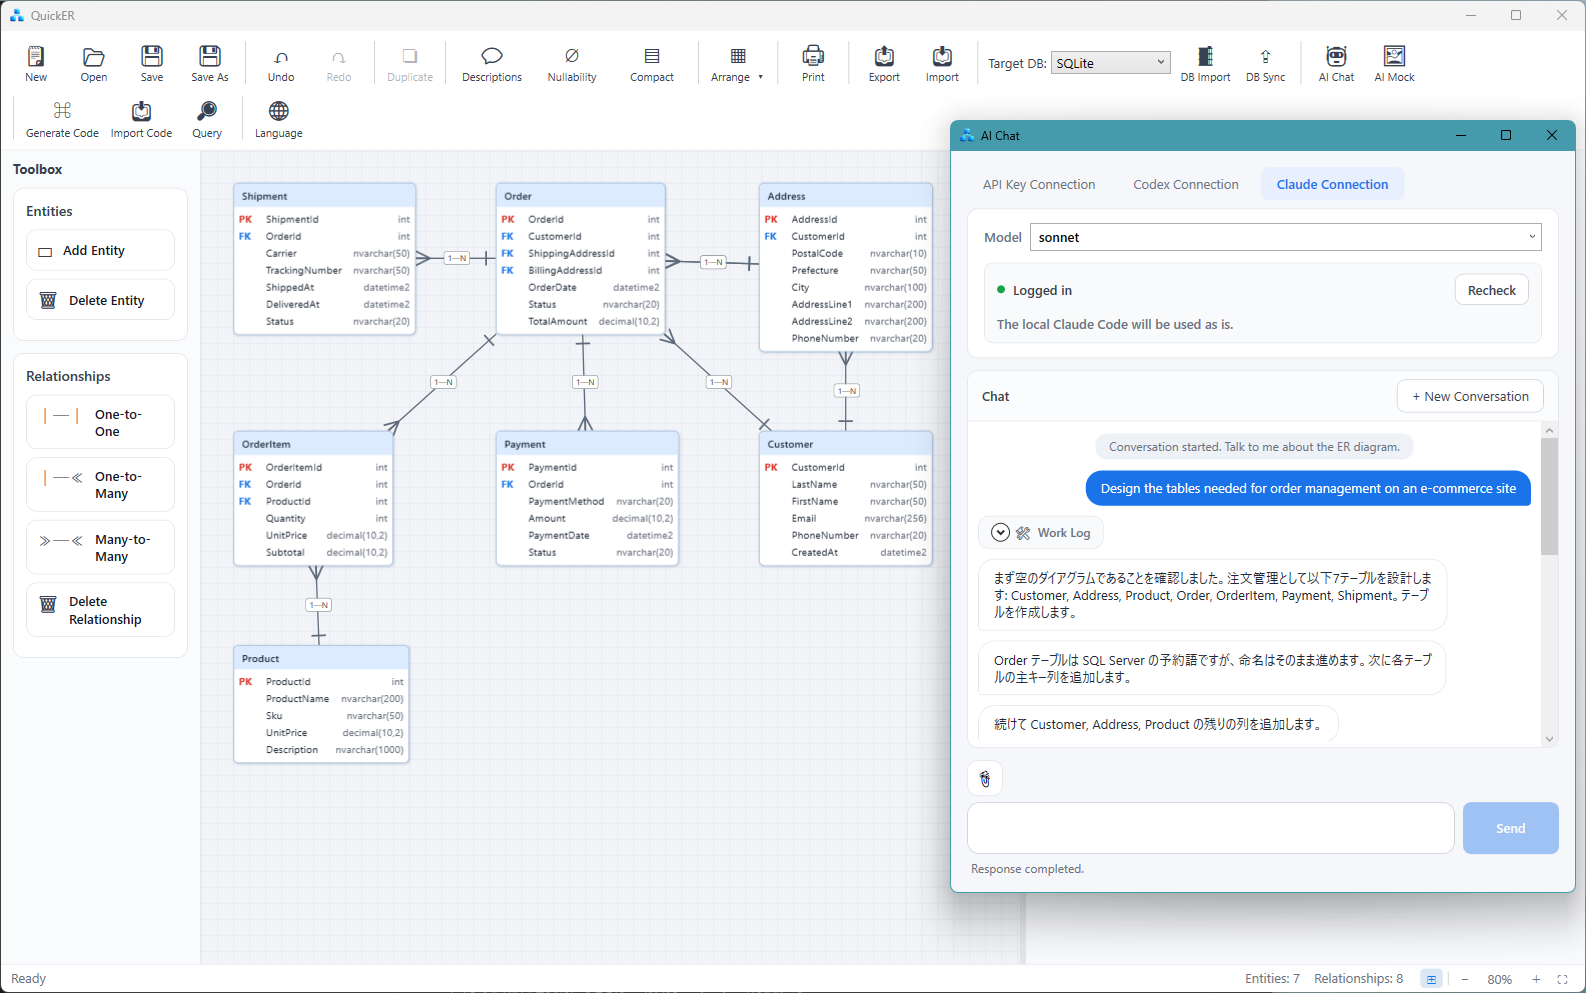
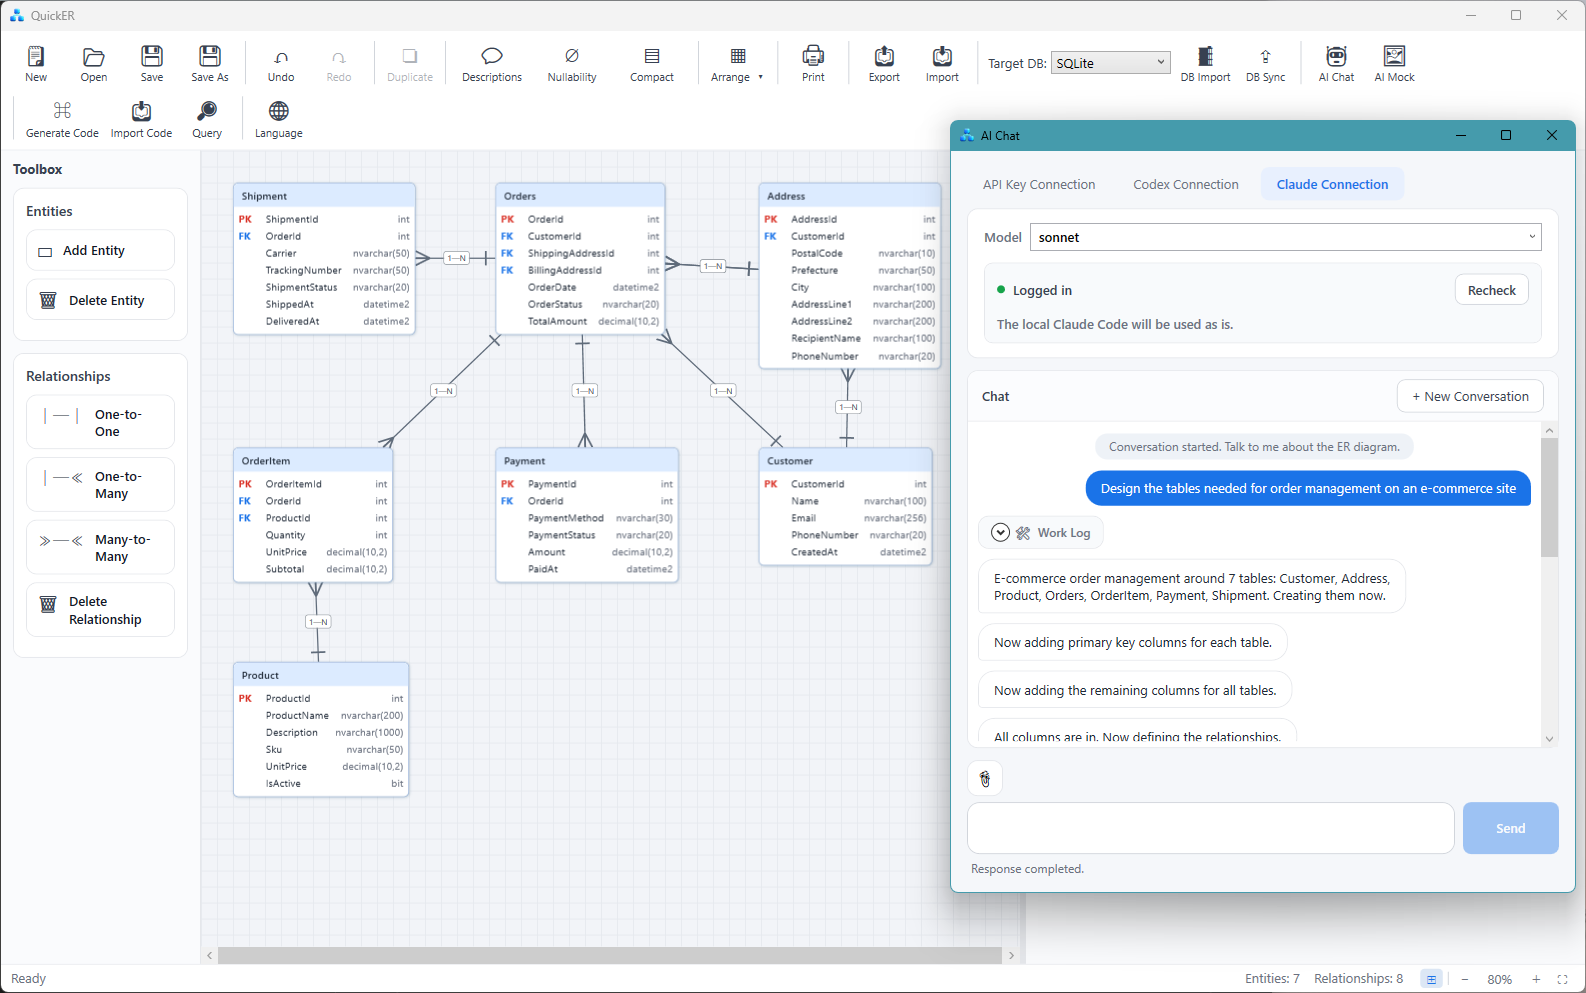
チャットの応答言語指示を「UI 言語既定＋明示切替」へ変更し、英語版 AI チャット画像を撮り直す
従来の鏡映し指示（ユーザーの直近のメッセージと同じ言語で応答）は、CLI エージェント接続
（Claude Code / Codex）でユーザー環境のメモリファイルが「ユーザーの声」として文脈に混入すると
「ユーザーの言語」の推論が引きずられ、英語 UI・英語メッセージでも日本語応答になることがあった
（実 CLI の A/B 検証: 旧文言は 2 回中 1 回日本語・「最優先」強調案はむしろ 3/3 日本語に悪化）。

- 言語指示をテンプレートから廃止し、resx 解決（＝UI 言語）の決定的ルール
  「応答は既定で UI 言語。ユーザーのメッセージが明らかに別言語のときのみ切替」を
  指示文の最後尾へ付加（ErDesignRules＝API キー / Codex / Claude Code の全経路・
  MockFolderDesignPrompts＝モックチャットも同欠陥のため同方式で修正）
- テスト: 言語ルールで終わる構造の固定と鏡映し文言の再混入ガード（ER / モック両方）
- docs/images/ai-chat.png: 修正版での実会話を撮り直し（英語 UI・英語応答・7 エンティティ生成）

検証: 実 CLI 再生ハーネスで EN 3/3・JA 1/1 安定（グローバル CLAUDE.md 復元済みの実環境条件）・
全 3,289 テスト全緑スキップ 0（Docker 込み）・csharpier クリーン

diff --git a/tests/QuickER.Tests/AI.Chat/ErDesignRulesTests.cs b/tests/QuickER.Tests/AI.Chat/ErDesignRulesTests.cs
@@ -89,16 +89,18 @@ public class ErDesignRulesTests
         }
     }
 
-    /// <summary>ツール指示テンプレートが「ユーザーと同じ言語で応答する」指示を含むことを検証する（両言語）</summary>
-    [Fact(DisplayName = "ツール指示はユーザー言語での応答指示を含む")]
-    public void ChatInstructionsTemplate_ContainsRespondInUserLanguageInstruction()
+    /// <summary>
+    /// 鏡映し（ユーザーと同じ言語で応答）の言語指示がテンプレートに残っていないことを検証する。
+    /// CLI 接続でユーザー環境のメモリが「ユーザーの声」として混入すると言語推論が不安定になるため、
+    /// 言語指示は ResponseLanguageRule（UI 言語既定＋明示切替）へ一本化した
+    /// </summary>
+    [Fact(DisplayName = "ツール指示テンプレートに鏡映しの言語指示が残っていない")]
+    public void ChatInstructionsTemplate_DoesNotContainMirrorLanguageInstruction()
     {
         En("ErDesign_ChatInstructionsTemplate")
             .Should()
-            .Contain("Respond in the same language as the user's most recent message");
-        Ja("ErDesign_ChatInstructionsTemplate")
-            .Should()
-            .Contain("応答は必ずユーザーの直近のメッセージと同じ言語で");
+            .NotContain("same language as the user's most recent message");
+        Ja("ErDesign_ChatInstructionsTemplate").Should().NotContain("直近のメッセージと同じ言語");
     }
 
     /// <summary>Codex 用 developerInstructions が命名既定（新規はパスカルケース単数形）を含むことを検証する（両言語テンプレート）</summary>
@@ -138,5 +140,32 @@ public class ErDesignRulesTests
             .BuildTableNameNumberInstruction(AiTableNameNumberStyle.Singular)
             .Should()
             .Be(Strings.ErDesign_TableNameSingular);
+    }
+
+    /// <summary>
+    /// チャット指示文（API キー / Codex / Claude Code 共通）が最優先の言語ルールで終わることを検証する。
+    /// CLI エージェント接続ではユーザー環境のメモリファイル等に応答言語が引きずられることがあるため、
+    /// 直近位置（最後尾）への付加を構造として固定する
+    /// </summary>
+    [Fact(DisplayName = "チャット指示文は最優先の言語ルールで終わる")]
+    public void ChatInstructions_EndWithResponseLanguageRule()
+    {
+        ErDesignRules
+            .BuildChatSystemPrompt()
+            .Should()
+            .EndWith(Strings.ErDesign_ResponseLanguageRule);
+        ErDesignRules
+            .BuildCodexDeveloperInstructions()
+            .Should()
+            .EndWith(Strings.ErDesign_ResponseLanguageRule);
+
+        Ja("ErDesign_ResponseLanguageRule")
+            .Should()
+            .Contain("既定で日本語")
+            .And.Contain("明らかに別の言語で書かれている場合のみ");
+        En("ErDesign_ResponseLanguageRule")
+            .Should()
+            .Contain("Default to English")
+            .And.Contain("clearly written in a different language");
     }
 }

diff --git a/src/QuickER.AI.Chat/ErDesignRules.cs b/src/QuickER.AI.Chat/ErDesignRules.cs
@@ -47,6 +47,13 @@ public static class ErDesignRules
 
     /// <summary>ツール駆動チャット（Codex / OpenAI 共通）の指示文を組み立てる</summary>
     /// <param name="toolMechanismLabel">ツール呼び出し機構の呼称（プロンプト内での表現を切り替える）</param>
+    /// <remarks>
+    /// 応答言語のルールは「UI 言語を既定・ユーザーのメッセージが明らかに別言語のときのみ切替」を
+    /// resx（＝UI 言語）で解決し、指示文の最後尾へ付加する。「ユーザーの直近のメッセージと同じ言語で」
+    /// という鏡映し指示は、CLI エージェント接続（Claude Code / Codex）でユーザー環境のメモリファイルが
+    /// ユーザーの声として文脈に混入すると「ユーザーの言語」の推論が引きずられ不安定だったため廃止
+    /// （実 CLI での A/B 検証に基づく。既定言語の明示は 3/3 で安定）。
+    /// </remarks>
     private static string BuildChatToolInstructions(string toolMechanismLabel) =>
         string.Format(
             Strings.ErDesign_ChatInstructionsTemplate,
@@ -54,5 +61,7 @@ public static class ErDesignRules
             CommonDesignPrinciples,
             SinglePrimaryKeyRule,
             SingleColumnForeignKeyRule
-        );
+        )
+        + "\n\n"
+        + Strings.ErDesign_ResponseLanguageRule;
 }

diff --git a/tests/QuickER.Tests/AI.Mock/MockFolderDesignPromptsTests.cs b/tests/QuickER.Tests/AI.Mock/MockFolderDesignPromptsTests.cs
@@ -80,4 +80,21 @@ public class MockFolderDesignPromptsTests
         codex.Should().Contain("save_screen");
         codex.Should().NotContain("{0}");
     }
+
+    /// <summary>
+    /// チャット指示が応答言語ルール（UI 言語既定＋明示切替）で終わることを検証する。
+    /// 鏡映し（ユーザーと同じ言語で）の指示は CLI 接続のユーザー環境メモリに引きずられ
+    /// 不安定なため廃止し、ErDesignRules と同方式の決定的な文言へ一本化した
+    /// </summary>
+    [Fact(DisplayName = "モックチャット指示は応答言語ルールで終わる")]
+    public void Instructions_EndWithResponseLanguageRule()
+    {
+        var en = WithCulture("en", MockFolderDesignPrompts.BuildSystemPrompt);
+        en.Should().Contain("# Response language").And.Contain("Default to English");
+        en.Should().NotContain("same language as the user's most recent message");
+
+        var ja = WithCulture("ja", MockFolderDesignPrompts.BuildSystemPrompt);
+        ja.Should().Contain("# 応答言語").And.Contain("既定で日本語");
+        ja.Should().NotContain("直近のメッセージと同じ言語");
+    }
 }

diff --git a/src/QuickER.AI.Mock/MockFolderDesignPrompts.cs b/src/QuickER.AI.Mock/MockFolderDesignPrompts.cs
@@ -20,7 +20,11 @@ public static class MockFolderDesignPrompts
     /// ツール呼び出し機構の呼称だけを差し替える。
     /// </remarks>
     private static string BuildInstructions(string toolMechanismLabel) =>
-        string.Format(Strings.Mock_FolderDesignInstructionsTemplate, toolMechanismLabel);
+        // 応答言語ルールは最後尾へ付加する（ErDesignRules と同方式。鏡映し指示は CLI 接続の
+        // ユーザー環境メモリに引きずられ不安定なため、UI 言語既定＋明示切替の決定的な文言を使う）
+        string.Format(Strings.Mock_FolderDesignInstructionsTemplate, toolMechanismLabel)
+        + "\n\n"
+        + Strings.Mock_ResponseLanguageRule;
 
     /// <summary>API キー接続チャット（Function/Tool 呼び出し）用の system プロンプトを組み立てる</summary>
     public static string BuildSystemPrompt() => BuildInstructions(Strings.Mock_FunctionToolLabel);

diff --git a/src/QuickER.AI.Mock/Resources/Strings.Designer.cs b/src/QuickER.AI.Mock/Resources/Strings.Designer.cs
@@ -689,6 +689,12 @@ namespace QuickER.AI.Mock.Resources {
             }
         }
 
+        public static string Mock_ResponseLanguageRule {
+            get {
+                return ResourceManager.GetString("Mock_ResponseLanguageRule", resourceCulture);
+            }
+        }
+
         public static string Mock_FolderInitialPromptTemplate {
             get {
                 return ResourceManager.GetString("Mock_FolderInitialPromptTemplate", resourceCulture);

diff --git a/src/QuickER.AI.Chat/Resources/Strings.Designer.cs b/src/QuickER.AI.Chat/Resources/Strings.Designer.cs
@@ -317,6 +317,12 @@ namespace QuickER.AI.Chat.Resources {
             }
         }
 
+        public static string ErDesign_ResponseLanguageRule {
+            get {
+                return ResourceManager.GetString("ErDesign_ResponseLanguageRule", resourceCulture);
+            }
+        }
+
         public static string ErDesign_NamingSnakeCase {
             get {
                 return ResourceManager.GetString("ErDesign_NamingSnakeCase", resourceCulture);
